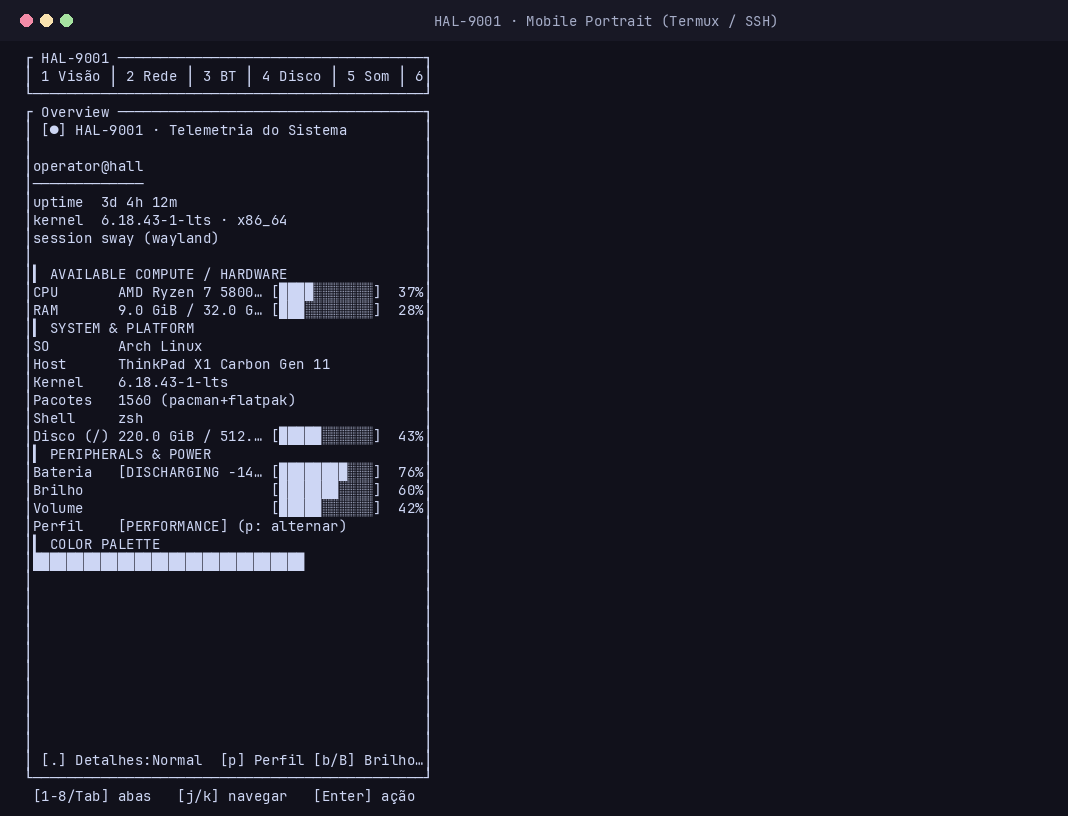
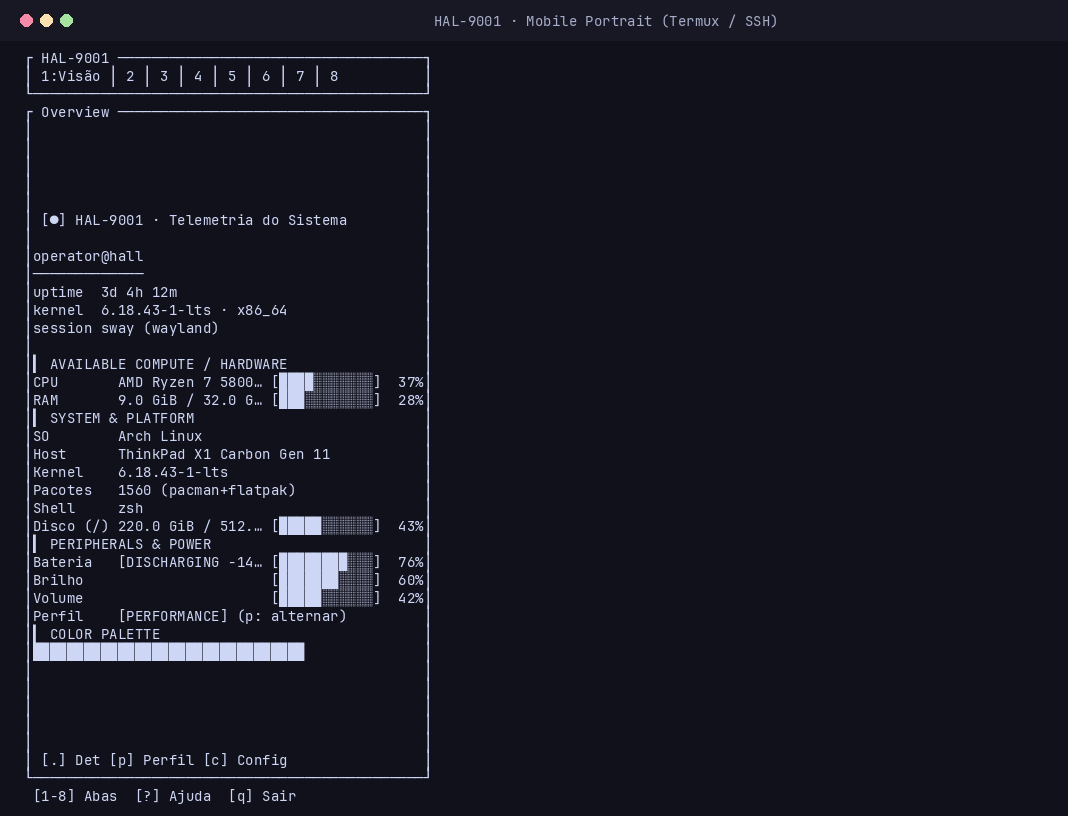
fix(ui): dynamic pill tabs, non-truncating footers & centered layout for narrow terminals

diff --git a/src/ui/mod.rs b/src/ui/mod.rs
@@ -66,14 +66,16 @@ pub fn draw(app: &App, f: &mut Frame) {
 
 fn draw_tabbar(app: &App, pal: &Palette, f: &mut Frame, area: Rect) {
     let m = app.lang.messages();
-    let is_compact = area.width < 72;
+    let width = area.width;
 
     let titles: Vec<Line> = Tab::ALL
         .iter()
         .enumerate()
         .map(|(i, t)| {
-            let label = if is_compact {
-                match t {
+            let label = if width >= 75 {
+                format!("{} {}", i + 1, t.title_in(app.lang))
+            } else if width >= 58 {
+                let short = match t {
                     Tab::Overview => "Visão",
                     Tab::Network => "Rede",
                     Tab::Bluetooth => "BT",
@@ -82,20 +84,39 @@ fn draw_tabbar(app: &App, pal: &Palette, f: &mut Frame, area: Rect) {
                     Tab::Displays => "Tela",
                     Tab::Files => "Arq",
                     Tab::Terminal => "Term",
-                }
+                };
+                format!("{} {short}", i + 1)
             } else {
-                t.title_in(app.lang)
+                // Modo ultra-compacto para celular / telas estreitas:
+                // Exibe o nome apenas na aba ativa e apenas o número nas demais!
+                if app.active == *t {
+                    let short = match t {
+                        Tab::Overview => "Visão",
+                        Tab::Network => "Rede",
+                        Tab::Bluetooth => "BT",
+                        Tab::Storage => "Disco",
+                        Tab::Audio => "Som",
+                        Tab::Displays => "Tela",
+                        Tab::Files => "Arq",
+                        Tab::Terminal => "Term",
+                    };
+                    format!("{}:{}", i + 1, short)
+                } else {
+                    format!("{}", i + 1)
+                }
             };
-            Line::from(vec![
-                Span::styled(format!("{} ", i + 1), Style::default().fg(pal.dim)),
-                Span::raw(label),
-            ])
+            Line::from(Span::raw(label))
         })
         .collect();
 
     // Título da janela: nome do assistente + SO/arch (ou simplificado em telas estreitas).
-    let title = if is_compact {
+    let title = if width < 50 {
         " HAL-9001 ".to_string()
+    } else if width < 75 {
+        match &app.system {
+            Some(s) => format!(" HAL-9001 ({}) ", s.os),
+            None => " HAL-9001 ".to_string(),
+        }
     } else {
         match &app.system {
             Some(s) => {
@@ -161,8 +182,13 @@ fn draw_statusline(app: &App, pal: &Palette, f: &mut Frame, area: Rect) {
         return;
     }
 
-    let hints =
-        " [1-8/Tab] abas   [j/k] navegar   [Enter] ação   [r] refresh   [?] ajuda   [q] sair ";
+    let hints = if area.width < 50 {
+        " [1-8] Abas  [?] Ajuda  [q] Sair "
+    } else if area.width < 68 {
+        " [1-8/Tab] abas  [j/k] nav  [Enter] ação  [?] ajuda "
+    } else {
+        " [1-8/Tab] abas   [j/k] navegar   [Enter] ação   [r] refresh   [?] ajuda   [q] sair "
+    };
     let line = Line::from(Span::styled(hints, Style::default().fg(pal.dim)));
     f.render_widget(Paragraph::new(line), area);
 }

diff --git a/src/ui/overview.rs b/src/ui/overview.rs
@@ -171,7 +171,7 @@ fn draw_single_column(app: &App, s: &SystemSnapshot, pal: &Palette, f: &mut Fram
 
     let content_h = (lines.len() as u16).min(area.height).max(1);
     let vband = Layout::vertical([Constraint::Length(content_h)])
-        .flex(Flex::Start)
+        .flex(Flex::Center)
         .split(area)[0];
 
     let info_w = info_w.min(area.width);
@@ -210,30 +210,46 @@ fn draw_footer(app: &App, pal: &Palette, f: &mut Frame, area: Rect) {
         ]
     };
     let mut spans = Vec::new();
-    let details_label = if app.lang == crate::i18n::Language::EnUs {
-        "Details:"
-    } else if app.lang == crate::i18n::Language::EsEs {
-        "Detalles:"
+
+    if area.width < 50 {
+        // Modo ultra-compacto para celular
+        spans.extend(hint(".", "Det"));
+        spans.extend(hint("p", "Perfil"));
+        spans.extend(hint("c", "Config"));
+    } else if area.width < 68 {
+        // Modo médio
+        spans.extend(hint(".", "Detalhe"));
+        spans.extend(hint("p", m.label_power_profile));
+        spans.extend(hint("b/v", "Brilho/Vol"));
+        spans.extend(hint("c", "Config"));
     } else {
-        "Detalhes:"
-    };
-    spans.extend(hint(".", details_label));
-    spans.push(Span::styled(format!("{mode} "), Style::default().fg(pal.fg)));
-    let mute_label = match app.lang {
-        crate::i18n::Language::EnUs => "Mute",
-        crate::i18n::Language::EsEs => "Mudo",
-        crate::i18n::Language::PtBr => "Mudo",
-    };
-    let config_label = match app.lang {
-        crate::i18n::Language::EnUs => "Config",
-        crate::i18n::Language::EsEs => "Config",
-        crate::i18n::Language::PtBr => "Config",
-    };
-    spans.extend(hint("p", m.label_power_profile));
-    spans.extend(hint("b/B", m.label_brightness));
-    spans.extend(hint("v/V", m.label_volume));
-    spans.extend(hint("m", mute_label));
-    spans.extend(hint("c", config_label));
+        // Modo tela cheia
+        let details_label = if app.lang == crate::i18n::Language::EnUs {
+            "Details:"
+        } else if app.lang == crate::i18n::Language::EsEs {
+            "Detalles:"
+        } else {
+            "Detalhes:"
+        };
+        spans.extend(hint(".", details_label));
+        spans.push(Span::styled(format!("{mode} "), Style::default().fg(pal.fg)));
+        let mute_label = match app.lang {
+            crate::i18n::Language::EnUs => "Mute",
+            crate::i18n::Language::EsEs => "Mudo",
+            crate::i18n::Language::PtBr => "Mudo",
+        };
+        let config_label = match app.lang {
+            crate::i18n::Language::EnUs => "Config",
+            crate::i18n::Language::EsEs => "Config",
+            crate::i18n::Language::PtBr => "Config",
+        };
+        spans.extend(hint("p", m.label_power_profile));
+        spans.extend(hint("b/B", m.label_brightness));
+        spans.extend(hint("v/V", m.label_volume));
+        spans.extend(hint("m", mute_label));
+        spans.extend(hint("c", config_label));
+    }
+
     // Trunca a linha inteira à largura disponível para nunca vazar.
     let mut line = Line::from(spans);
     if line_width(&line) > area.width as usize {
